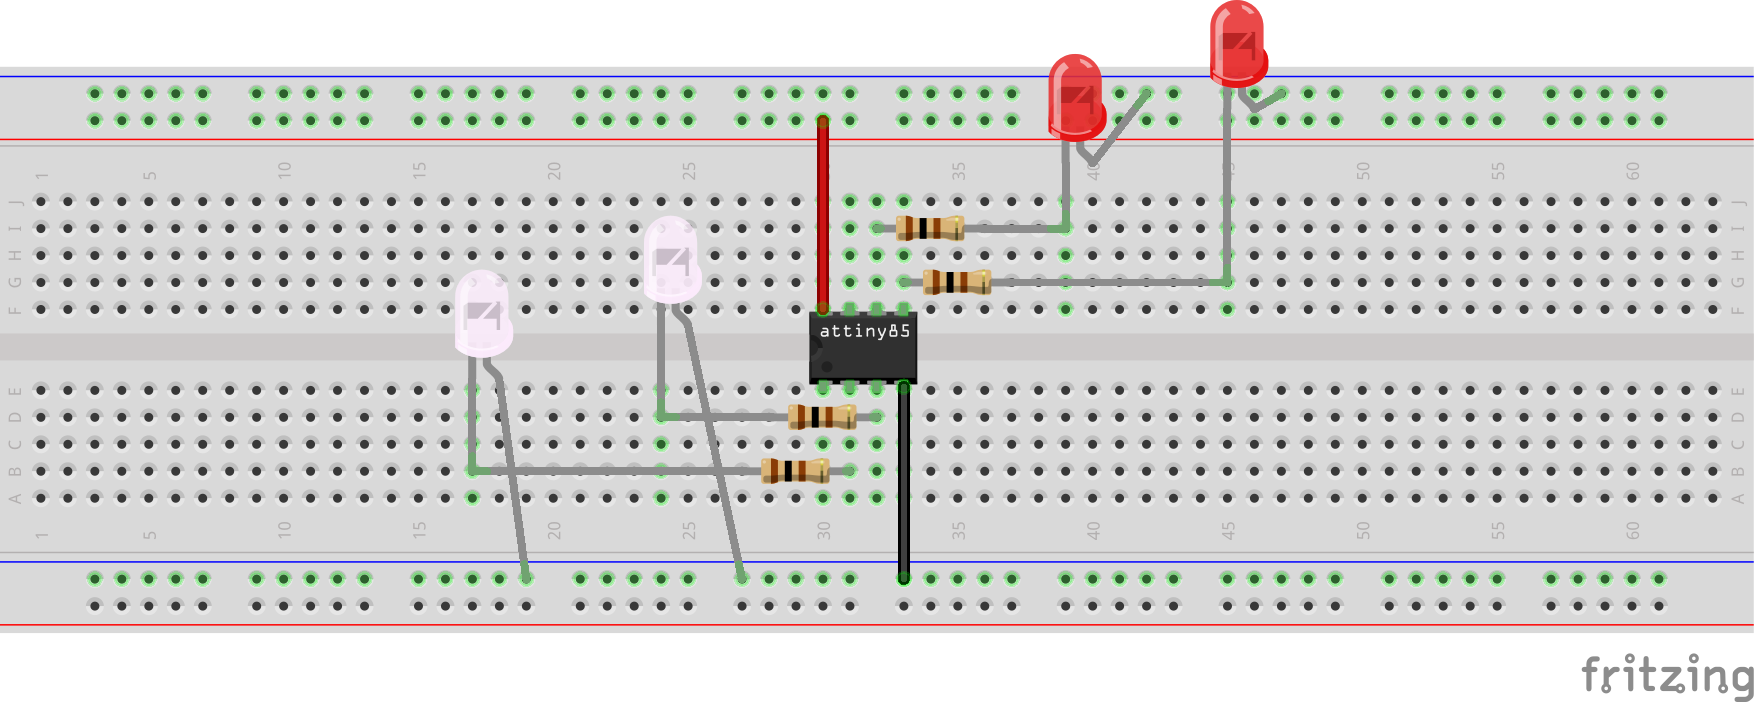
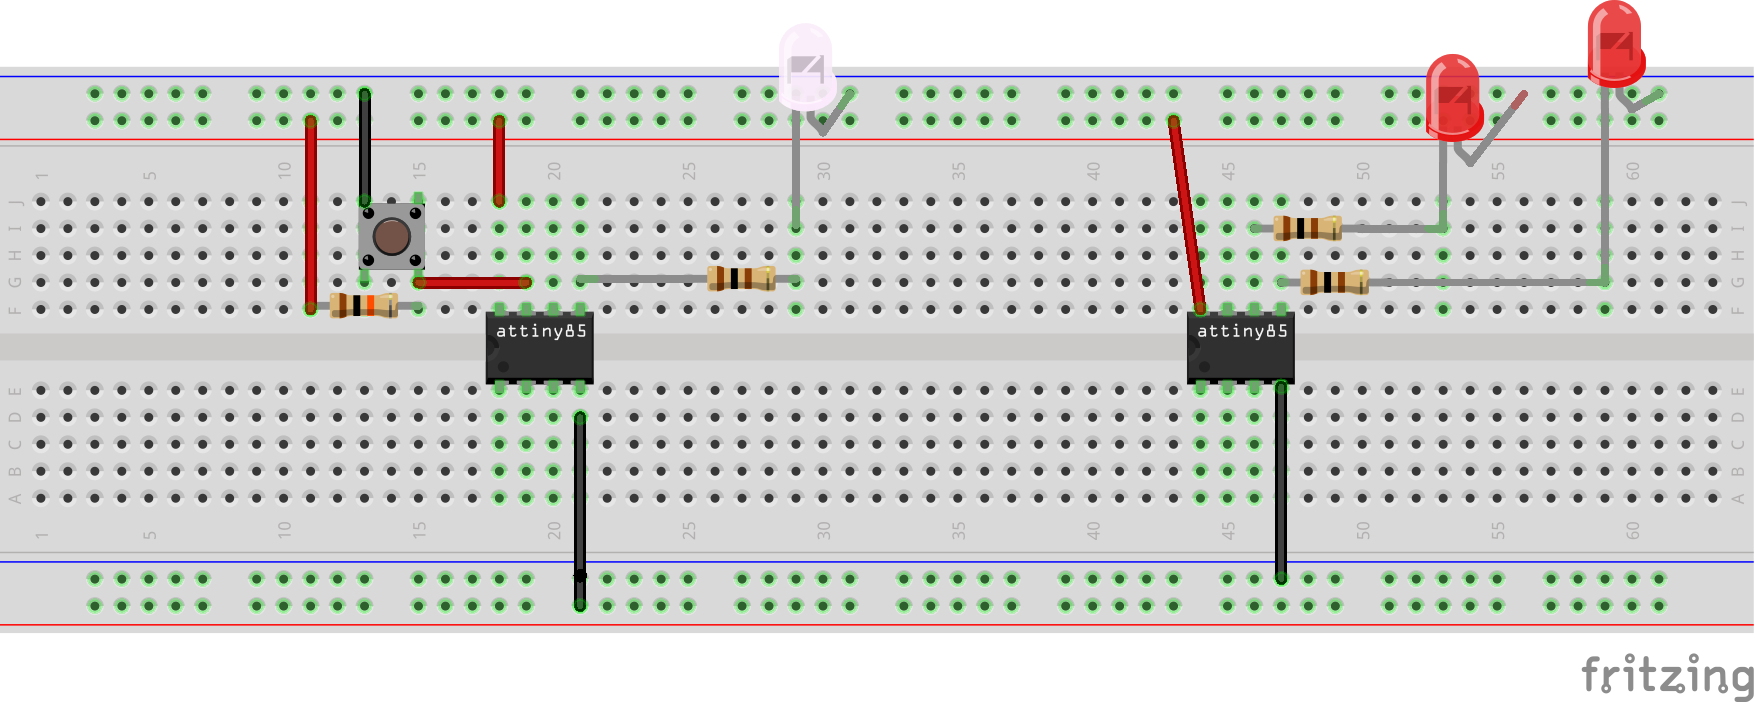
separated strobes into separate sketch, using two ATTiny85s now

Changed region(s): [[0.0308, 0.0, 0.9538, 0.8675]]

diff --git a/README.md b/README.md
@@ -1,7 +1,7 @@
 # K'Tinga Lighting Sketch
 
-Flash the strobes and "flicker" the engines a little bit.
+Flash the strobes and ramp the torpedo tube when button is pushed.
 
-Pins set for an ATTiny85- which is a great little chip for a job like this.
+Pins set for an ATTiny85- which is a great little chip for a job like this. Uses two ATTiny85s and the LEDFader library (https://github.com/jgillick/arduino-LEDFader).
 
 ![breadboard schematic](https://github.com/BillDett/ktinga/blob/main/ktinga_bb.png)
